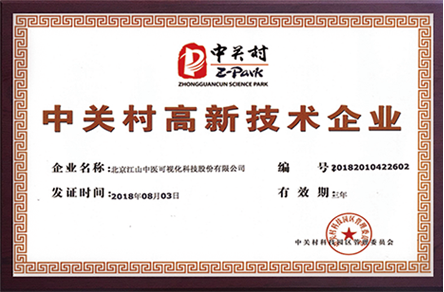
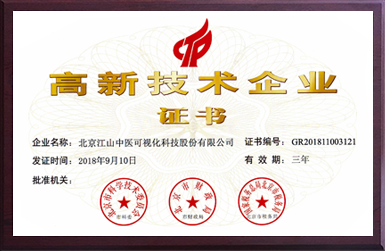
关于我们

diff --git a/src/app/router/about/social-concern/social-concern.component.scss b/src/app/router/about/social-concern/social-concern.component.scss
@@ -1,7 +1,6 @@
 @import "../../../scss/index";
 .social-view {
-  background:rgb(242, 242, 244) url("../../../../assets/images/about/rongyu.png") no-repeat top;
-  text-align: center;
+  background: #fff;
   border: 1px solid transparent;
 }
 
@@ -18,47 +17,27 @@
     letter-spacing: 6px;
 
   }
-  ul {
-    padding: 0;
-    margin: 25px 0 100px;
-    display: flex;
-    flex: 1;
-    flex-wrap: wrap;
-    flex-direction: row;
-    flex-shrink: 0.8;
-    justify-content: center;
-  }
-
-  li {
-    list-style: none;
-    margin: 2em;
+  .listbox {
     position: relative;
-    cursor: pointer;
+    padding: 0;
+    margin: 1em 0;
+    width: 100%;
     text-align: center;
-    //border-radius: 10px;
-    border: 1px solid #e6e0e0;
-    transition: transform 0.5s;
-
-    .name {
-      font-size: 14px;
-      color: #333;
-      margin: 0;
-      padding: 0 15px;
-      @include truncate();
-      letter-spacing: 2px;
-      position: absolute;
-      bottom: 18px;
-      left: 0;
-      right: 0;
+    display: inline-block;
+    img {
+      transition: transform 0.5s;
     }
 
-    //&:hover {
-    //  @include shadow();
-    //  transform: translateY(-10px);
-    //  .name {
-    //    color: #327ce2;
-    //  }
-    //
-    //}
+    &:hover img {
+      @include shadow();
+      cursor: pointer;
+      transform: translateY(-10px);
+
+    }
   }
+}
+
+.marg {
+  margin-top: 100px;
+  margin-bottom: 100px;
 }

diff --git a/src/app/router/information/information-service.service.ts b/src/app/router/information/information-service.service.ts
@@ -325,7 +325,7 @@ export class InformationService {
             source: '来源： 江山中医可视化',
             text: [
                 // tslint:disable-next-line:max-line-length
-                '2018年，北京江山中医可视化科技股份有限公司收获了 "高新技术企业证书"、 "中关村高新技术企业证书"、"中国健康促进基金会授予“有社会责任感企业”" ，三大项特殊荣誉'
+                '2018年，北京江山中医可视化科技股份有限公司收获了 "高新技术企业证书"、 "中关村高新技术企业证书"、中国健康促进基金会授予、“有社会责任感企业” ，三大项特殊荣誉'
             ],
             src: [
                 '../../../../assets/images/information/companynews/9/3.png',

diff --git a/src/app/router/about/social-concern/social-concern.component.html b/src/app/router/about/social-concern/social-concern.component.html
@@ -1,12 +1,15 @@
 <div class="social-view">
   <div class="social-content" #social [@pulse]="socialfalg ? 'closed' : 'enter'">
     <p class="title">公司荣誉</p>
-    <ul>
-      <li *ngFor="let item of storylist">
-        <img class="img-fluid" src="{{ item.src }}">
-        <!--<p class="name">{{ item.title}}</p>-->
-      </li>
-    </ul>
+    <div class="container maxwidth marg align-items-center">
+      <div class="row">
+        <div class="col-lg-4 col-md-6 col-sm-6 col-xs-12 justify-content-center" *ngFor="let item of storylist;let i = index">
+          <div class="listbox" >
+            <img class="img-fluid" src="{{ item.src }}"/>
+          </div>
+        </div>
+      </div>
+    </div>
   </div>
 
 </div>

diff --git a/src/app/router/about/computed-honor/computed-honor.component.ts b/src/app/router/about/computed-honor/computed-honor.component.ts
@@ -11,8 +11,8 @@ import {Pulse} from '../../../animations/pulse.animation';
 })
 export class ComputedHonorComponent implements OnInit , OnChanges{
   datalist: { src: string, title: string}[] = [
-    { src: '../../../assets/images/about/3.png', title: '俞梦孙院士关注可视化技术'},
-    { src: '../../../assets/images/about/4.png', title: '江西中医药大学授予 "创新实践基地"'},
+    { src: '../../../assets/images/about/21.png', title: '俞梦孙院士关注可视化技术'},
+    { src: '../../../assets/images/about/22.png', title: '江西中医药大学授予 "创新实践基地"'},
   ];
 
   // 获取本地变量

diff --git a/src/app/router/about/social-concern/social-concern.component.ts b/src/app/router/about/social-concern/social-concern.component.ts
@@ -14,6 +14,7 @@ export class SocialConcernComponent implements OnInit , OnChanges{
   storylist: { src: string, title: string }[] = [
     { src: '../../../assets/images/about/1.png', title: '2015年春节习近平总书记视察我公司产品'},
     { src: '../../../assets/images/about/2.png', title: '我公司便捷式红外影像设备'},
+    { src: '../../../assets/images/about/3.png', title: '我公司便捷式红外影像设备'},
   ];
 
   // 获取本地变量

diff --git a/src/app/router/about/computed-honor/computed-honor.component.scss b/src/app/router/about/computed-honor/computed-honor.component.scss
@@ -1,6 +1,9 @@
 @import "../../../scss/index";
 .honor-view {
-  background: #fff;
+  background:rgb(242, 242, 244) url("../../../../assets/images/about/rongyu.png") no-repeat top;
+  text-align: center;
+  border: 1px solid transparent;
+
 }
 
 .honor-content {
